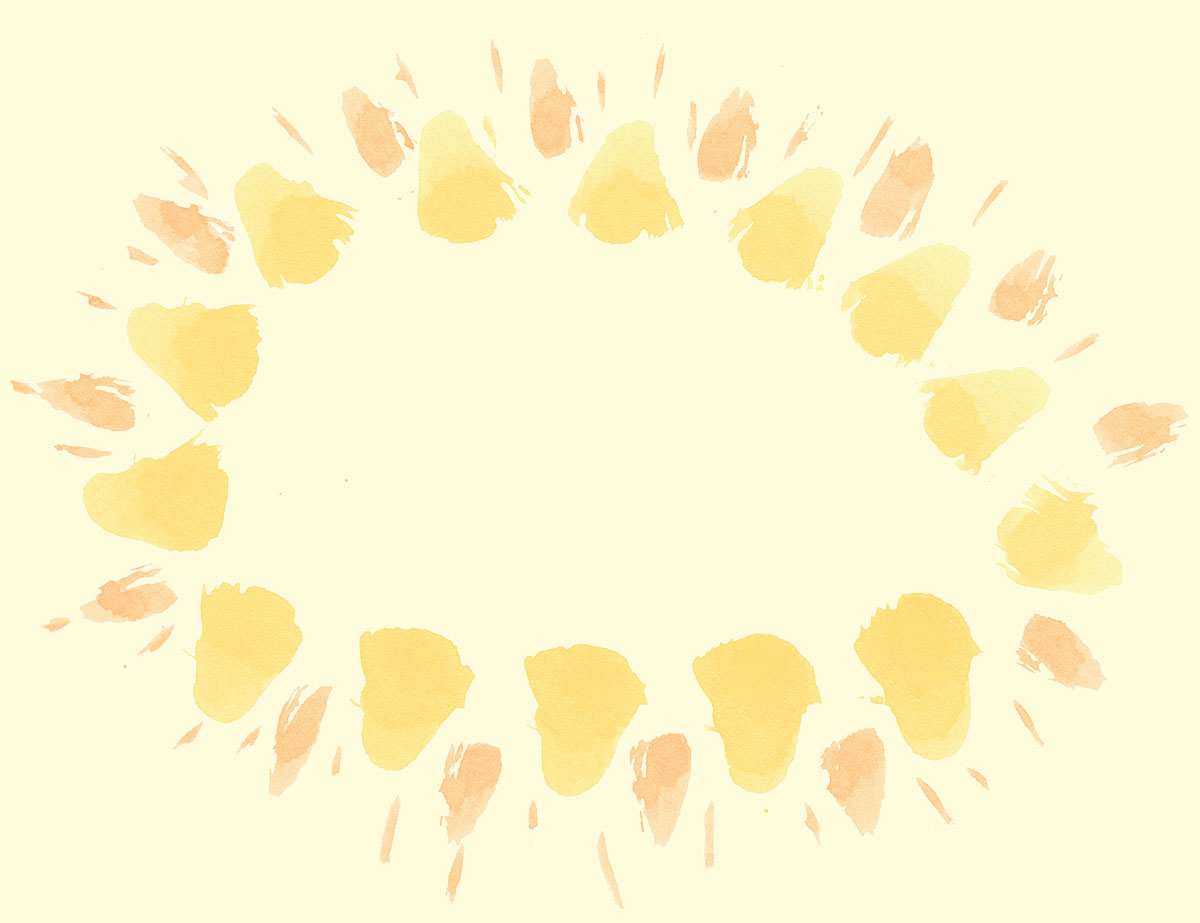
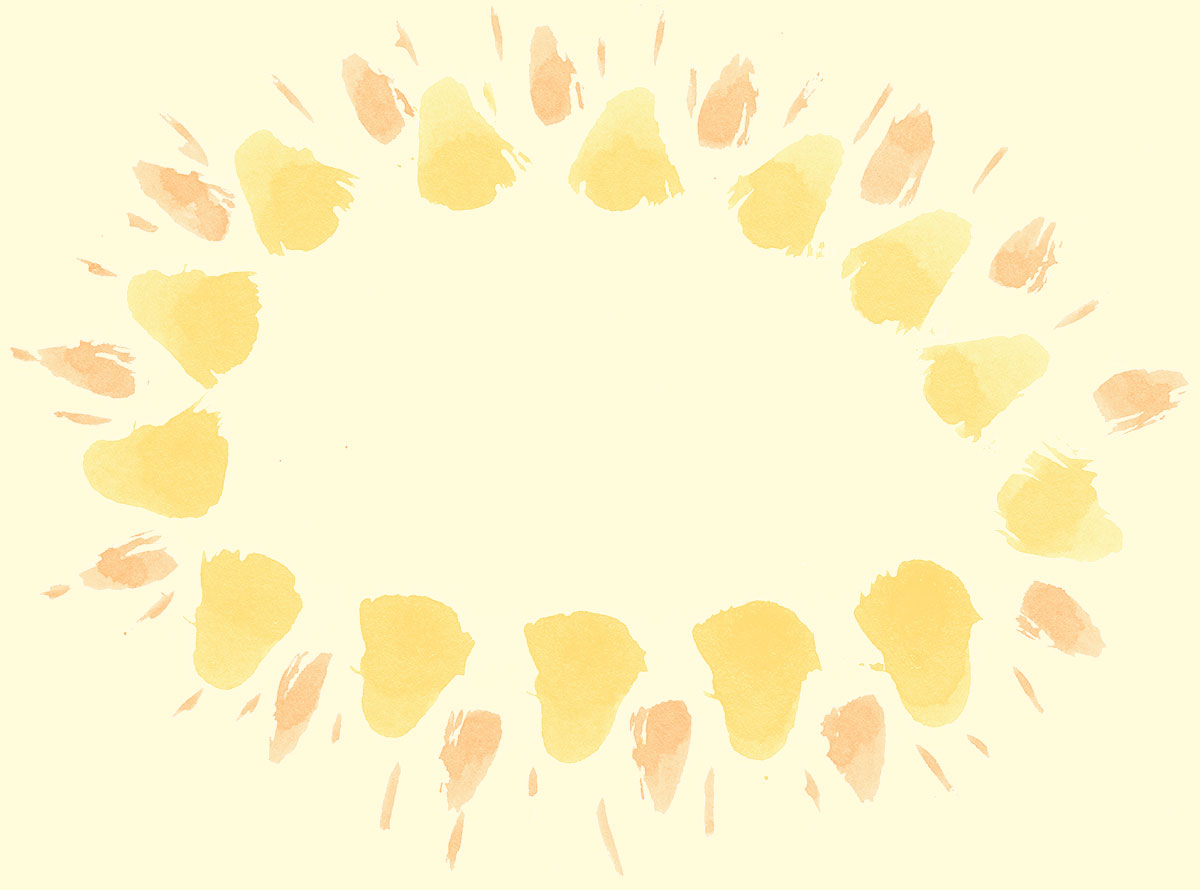
Updates
updated imagery and css

diff --git a/index.html b/index.html
@@ -92,12 +92,13 @@ title: STEAM
 			</div>
 		</section>
 
+	<img src="assets/img/students-working-cardboard.jpg" class="full-frame student-working"/>
 		
 
 	<section class="content" id="innovators">
 	
 		<section  class="full-width image-break">
-			<img id="making-image" src="assets/img/students-working-cardboard.jpg" class="middle"/>
+			<img id="making-image" src="assets/img/shapes/paper-texture.jpg" class="middle"/>
 		</section>
 
 		
@@ -110,20 +111,21 @@ title: STEAM
 			<h2>innovators are makers</h2>
 			<img src="assets/img/shapes/innovator-bg-3.jpg" class="burst full-frame"/>
 			<div class="maker-profile clearfix middle">
-				<img src="assets/img/profiles/david-hanson.jpg"/>
-				<h3 class="maker-profile-name">Firstname Lastname</h3>
+				<img src="assets/img/profiles/tina-roth-eisenberg.jpg"/>
+				
+				<h3 class="maker-profile-name">Tina Roth Eisenberg</h3>
 				<p class="maker-description three-column">Lorem ipsum dolor sit amet, consectetur adipiscing elit. Quisque tempor eu nisl id lobortis. Phasellus id placerat lacus. Fusce sollicitudin et ligula dignissim euismod. Cras mattis semper tortor, ut pharetra magna molestie accumsan. Fusce aliquet hendrerit turpis, quis feugiat mi vestibulum id. Nunc pulvinar ultrices mauris, et tincidunt leo. Sed nulla magna, tempus vitae felis a, vestibulum rutrum magna</p>
 			</div>
 
 			<div class="maker-profile clearfix middle">
 				<img src="assets/img/profiles/danny-kim.jpg"/>
-				<h3 class="maker-profile-name">Firstname Lastname</h3>
+				<h3 class="maker-profile-name">Danny Kim</h3>
 				<p class="maker-description three-column">Lorem ipsum dolor sit amet, consectetur adipiscing elit. Quisque tempor eu nisl id lobortis. Phasellus id placerat lacus. Fusce sollicitudin et ligula dignissim euismod. Cras mattis semper tortor, ut pharetra magna molestie accumsan. Fusce aliquet hendrerit turpis, quis feugiat mi vestibulum id. Nunc pulvinar ultrices mauris, et tincidunt leo. Sed nulla magna, tempus vitae felis a, vestibulum rutrum magna</p>
 			</div>
 
 			<div class="maker-profile clearfix middle">
-				<img src="#"/>
-				<h3 class="maker-profile-name">Firstname Lastname</h3>
+				<img src="assets/img/profiles/david-hanson.jpg"/>
+				<h3 class="maker-profile-name">David Hanson</h3>
 				<p class="maker-description three-column">Lorem ipsum dolor sit amet, consectetur adipiscing elit. Quisque tempor eu nisl id lobortis. Phasellus id placerat lacus. Fusce sollicitudin et ligula dignissim euismod. Cras mattis semper tortor, ut pharetra magna molestie accumsan. Fusce aliquet hendrerit turpis, quis feugiat mi vestibulum id. Nunc pulvinar ultrices mauris, et tincidunt leo. Sed nulla magna, tempus vitae felis a, vestibulum rutrum magna</p>
 			</div>
 		</div>
@@ -205,7 +207,7 @@ title: STEAM
 
 		<section class="content" id="take-action">
 			<div class="grid full-width">
-			<h2>Take action</h2>
+			<h2>take <br/>action</h2>
 			<img src="assets/img/shapes/painted-rings-1.png" class="burst full-frame"/>
 			<div class="body-text four-column middle">
 				<p>Lorem ipsum dolor sit amet, consectetur adipisicing elit, sed do eiusmod	tempor incididunt ut labore et dolore magna aliqua. Ut enim ad minim veniam, quis nostrud exercitation ullamco laboris nisi ut aliquip ex ea commodo
@@ -225,7 +227,7 @@ title: STEAM
 				<input class="two-column" type="url" name="website" placeholder="website">
 				<p>I work in the following area</p>
 				
-				<div class="button-group one-column">
+				<!-- <div class="button-group one-column">
   					<label for="education">education</label>  
   			    	<input id="education" type="radio" name="category" value="education">
   			    </div>  
@@ -243,8 +245,23 @@ title: STEAM
 			    <div class="button-group one-column">
 				    <label for="policy">policy</label> 
 				    <input id="policy" type="radio" name="category" value="policy">  
-				</div>
+				</div> -->
 
+				<div class="radio clearfix">
+					
+					<input id="education-btn" type="radio" name="category" value="education">
+					<label for="education-btn" class="one-column">Education</label>
+					
+					<input id="research-btn" type="radio" name="category" value="research">
+					<label for="research-btn" class="one-column">Research</label>
+
+					<input id="industry-btn" type="radio" name="category" value="industry">
+					<label for="industry-btn" class="one-column">Industry</label>
+
+					<input id="policy-btn" type="radio" name="category" value="policy">
+					<label for="policy-btn" class="one-column">Policy</label>
+				</div>
+				<input id="submit-btn" class="two-column" type="submit" value="Join the Movement"/>
 			</form>
 			</div>
 

diff --git a/assets/styles/css/style.css b/assets/styles/css/style.css
@@ -156,7 +156,7 @@ h2 {
   font-size: 200px;
   margin: 0px;
   line-height: 160px;
-  letter-spacing: -8px;
+  letter-spacing: -6px;
   color: #e6e6e6;
   position: relative;
   -webkit-text-rendering: optimizeLegibility;
@@ -250,7 +250,7 @@ h5.rotate-90 {
 img.burst {
   background: none;
   position: absolute;
-  top: -120px;
+  top: -110px;
   opacity: 0.4;
   /*z-index:1;*/ }
 
@@ -298,6 +298,10 @@ img.burst {
 
 #take-action h2 {
   color: #fffbdb; }
+
+#take-action.content p {
+  color: #f0f0fa;
+  -webkit-font-smoothing: antialiased; }
 
 #making-image {
   width: 721px;
@@ -439,7 +443,8 @@ p.graphic-description {
 /*04. FORM HOOPLA ===================================*/
 form {
   margin-bottom: 200px;
-  margin-top: 80px; }
+  margin-top: 80px;
+  position: relative; }
 
 input, label {
   font-size: 22px;
@@ -450,8 +455,8 @@ input, label {
   -webkit-transition: all 0.2s ease-in-out; }
 
 input:focus {
-  background: white;
-  color: #1e1e1e;
+  background: #8399AA;
+  color: #f0f0f0;
   outline: none;
   box-shadow: 0px 0px 5px rgba(30, 30, 30, 0.2); }
 
@@ -459,15 +464,12 @@ input {
   border: none;
   padding: 10px 0px 10px 0px;
   border-bottom: 1px dotted #c8c8c8;
-  margin-bottom: 20px; }
+  margin-bottom: 20px;
+  color: #fafafa; }
 
 input:nth-child(odd) {
   /*background:green;*/
   margin-left: 15px; }
-
-label {
-  display: block;
-  text-align: center; }
 
 .button-group {
   float: left;
@@ -477,11 +479,63 @@ label {
   margin-right: 0px;
   /*background:orange;*/ }
 
+label {
+  display: block;
+  cursor: pointer;
+  position: relative;
+  /*background:orange;*/
+  margin-right: 24px;
+  float: left;
+  text-align: center;
+  color: gainsboro;
+  -webkit-font-smoothing: antialiased; }
+
+label:last-child {
+  margin-right: 0px; }
+
 input[type=radio] {
+  display: none; }
+
+label:after {
+  content: "";
+  display: block;
+  margin: 20px auto 0px auto;
+  width: 20px;
+  height: 20px;
+  border-radius: 12px;
+  border: 2px solid #c8c8c8;
+  -webkit-transition: all 0.5s ease-in-out; }
+
+input[type=radio]:checked + label:after {
+  content: "\2022";
+  color: #f3f3f3;
+  font-size: 30px;
+  border: 2px solid #f0f0f0;
+  background: rgba(240, 240, 240, 0.3);
   margin-top: 20px;
-  margin-left: 20px;
-  /*padding-top:20px;*/
-  text-align: center; }
+  text-align: center;
+  line-height: 18px; }
+
+input[type="submit"] {
+  background: none;
+  border: 1px solid white;
+  -webkit-font-smoothing: antialiased;
+  /*margin:0px;*/
+  margin: 40px auto;
+  display: block; }
+
+input[type="submit"]:hover {
+  background: white;
+  cursor: pointer;
+  color: #657686; }
+
+.radio:after {
+  content: "";
+  display: inline-block;
+  width: 100%;
+  height: 4px;
+  background: red;
+  margin: 20px; }
 
 /*first breakpoint*/
 @media only screen and (min-width: 730px) and (max-width: 1070px) {

diff --git a/assets/styles/scss/style.scss b/assets/styles/scss/style.scss
@@ -198,7 +198,7 @@ body{
 		font-size:200px;
 		margin:0px;
 		line-height:160px;
-		letter-spacing:-8px;
+		letter-spacing:-6px;
 		color:rgb(230,230,230);
 		position:relative;
 		-webkit-text-rendering: optimizeLegibility;
@@ -306,7 +306,7 @@ body{
 		img.burst{
  		background:none;
  		position:absolute;
- 		top:-120px;
+ 		top:-110px;
  		opacity:0.4;
  		/*z-index:1;*/
 
@@ -384,6 +384,11 @@ body{
 
 	#take-action h2{
 		color:rgb(255,251,219);
+	}
+
+	#take-action.content p{
+		color:rgb(240,240,250);
+		-webkit-font-smoothing:antialiased;
 	}
 
 
@@ -564,6 +569,7 @@ body{
 	form{
 		margin-bottom:200px;
 		margin-top:80px;
+		position:relative;
 	}
 
 	input,label{
@@ -575,8 +581,8 @@ body{
 	}
 
 	input:focus{
-		background:white;
-		color:rgb(30,30,30);
+		background:#8399AA;
+		color:rgb(240,240,240);
 		outline:none;
 		box-shadow:0px 0px 5px rgba(30,30,30,0.2);
 	}
@@ -586,6 +592,7 @@ body{
 		padding:10px 0px 10px 0px;
 		border-bottom:1px dotted rgb(200,200,200);
 		margin-bottom:20px;
+		color:rgb(250,250,250);
 	}
 
 	input:nth-child(odd){
@@ -593,11 +600,7 @@ body{
 		margin-left:15px;
 	}
 
-	label{
-		display:block;
-		text-align:center;
-		
-	}
+	
 
 	.button-group{
 		float:left;
@@ -609,13 +612,77 @@ body{
 		/*background:orange;*/
 	}
 
-	input[type=radio]{
-		margin-top:20px;
-		margin-left:20px;
-		/*padding-top:20px;*/
-		text-align:center;
+
+	label {
+		display: block;
+		cursor: pointer;
+		position: relative;
+		/*background:orange;*/
+		margin-right:24px;
+		float:left;
+		text-align: center;
+		color:rgb(220,220,220);
+		-webkit-font-smoothing:antialiased;
 	}
 
+	label:last-child{
+		margin-right:0px;
+	}
+
+	input[type=radio] {
+		display: none;
+
+	}
+
+	label:after {
+	content: "";
+	display: block;
+	margin:20px auto 0px auto;
+	width: 20px;
+	height: 20px;
+	border-radius:12px;
+	border:2px solid rgb(200,200,200);
+	-webkit-transition: all 0.5s ease-in-out;
+
+}
+
+
+
+	input[type=radio]:checked + label:after {
+    content: "\2022";
+    color: #f3f3f3;
+    font-size: 30px;
+    border:2px solid rgb(240,240,240);
+    background:rgba(240,240,240,0.3);
+    margin-top:20px;
+    text-align: center;
+    line-height: 18px;
+}
+
+	
+	input[type="submit"]{
+		background:none;
+		border:1px solid white;
+		-webkit-font-smoothing:antialiased;
+		/*margin:0px;*/
+		margin:40px auto;
+		display:block;
+	}
+
+	input[type="submit"]:hover{
+		background:white;
+		cursor:pointer;
+		color:rgb(101,118,134);
+	}
+
+	.radio:after{
+		content:"";
+		display:inline-block;
+		width:100%;
+		height:4px;
+		background:red;
+		margin:20px;
+	}
 
 /*first breakpoint*/
  @media only screen and (min-width:730px) and (max-width:1070px){
